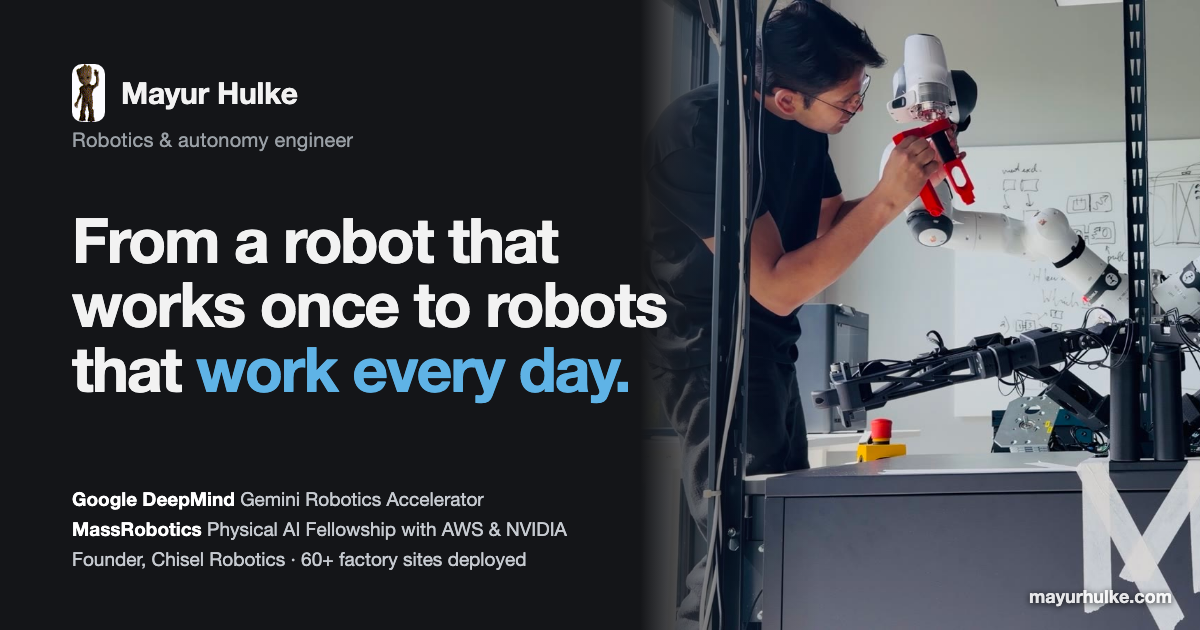
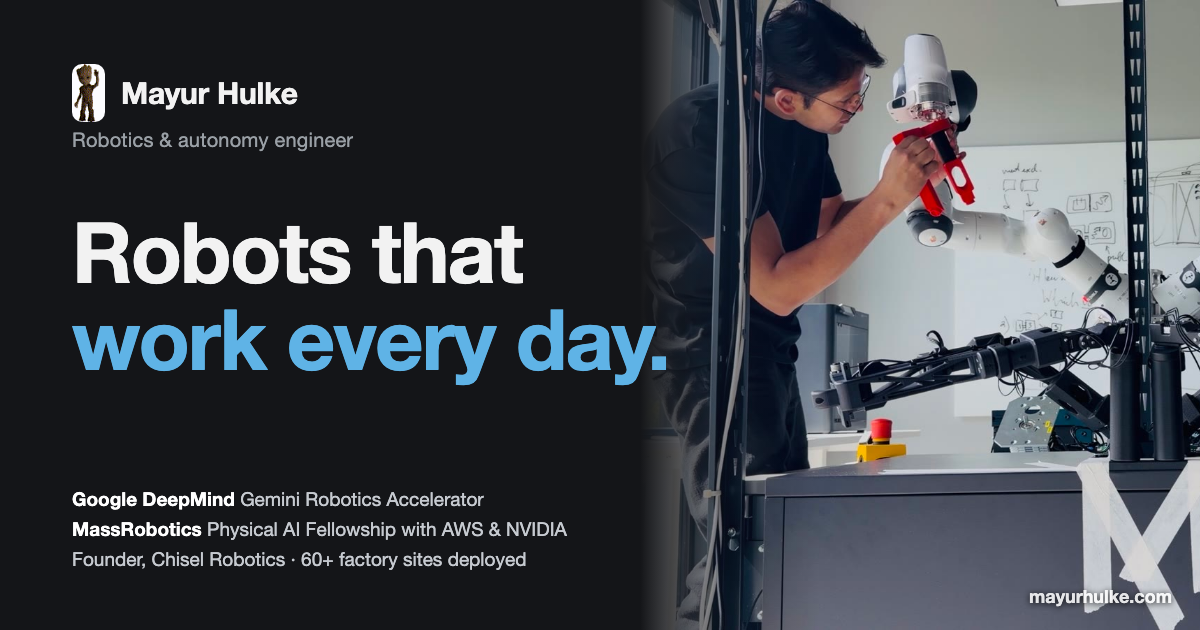
Shorten the headline to "Robots that work every day."

Changed region(s): [[0.0617, 0.3317, 0.555, 0.6333]]

diff --git a/content/_index.md b/content/_index.md
@@ -1,7 +1,7 @@
 ---
 kicker: "Mayur Hulke · Staff Autonomy Engineer at HIVE"
-tagline: "From a robot that works once to robots that work every day. 🤖"
-hero_sub: "Perception, manipulation and autonomy for factories and heavy machines: deployed with customers, not just demoed."
+tagline: "Robots that work every day. 🤖"
+hero_sub: "Deployed, not just demoed."
 description: "Mayur Hulke is a robotics and autonomy engineer working across perception, manipulation and heavy-machine autonomy."
 ---
 
